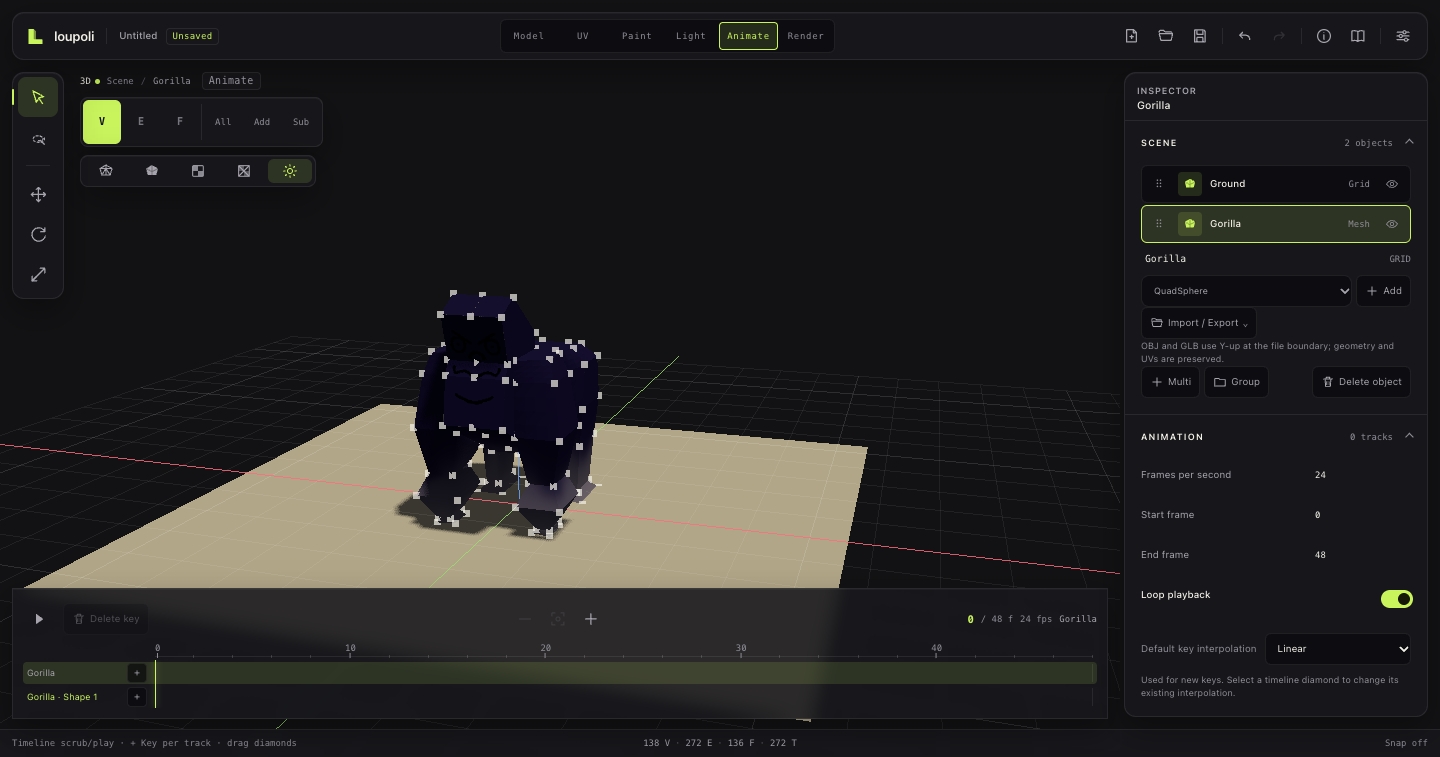
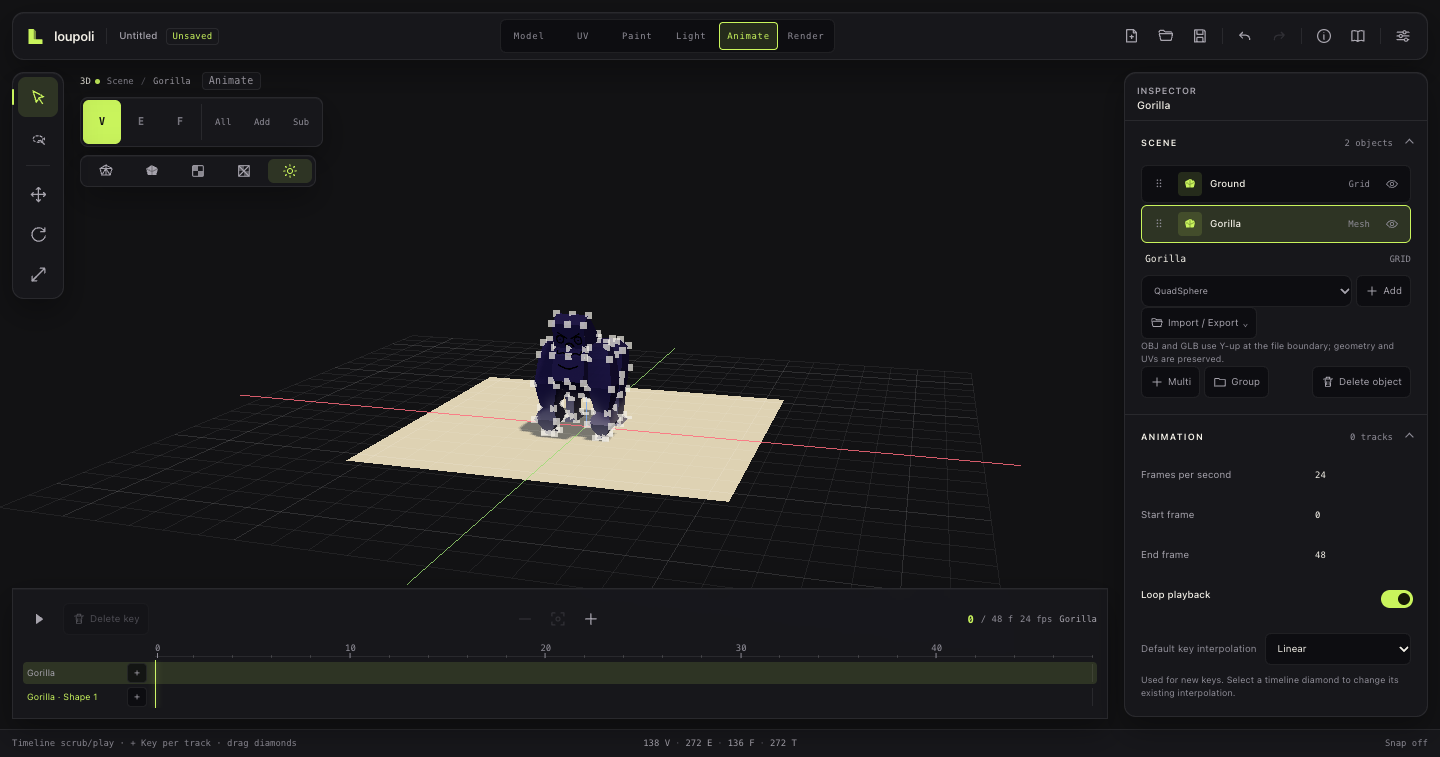
Refine documentation content and sample lighting
Recasts the reference as functionality explanations with larger reading text, removes claims that the sample scene is installed, brightens the illustrative lighting with a fill light, and refreshes the screenshots.

Changed region(s): [[0.0, 0.3646, 0.625, 0.79]]

diff --git a/src/lib/help/documentation.ts b/src/lib/help/documentation.ts
@@ -23,7 +23,7 @@ export const DOCUMENTATION: readonly DocumentationPage[] = [
     summary:
       'Model is the direct-edit workspace. Selection, transforms, one-shot topology tools, modifiers, and shape keys all act on the active editable mesh.',
     image: '/documentation/model.png',
-    alt: 'Model workspace with the front-facing gorilla, grid ground, Scene outliner, and vertex selection handles.',
+    alt: 'Model workspace with a textured sample model, grid ground, Scene outliner, and vertex selection handles.',
     sections: [
       {
         heading: 'Selection',
@@ -52,14 +52,14 @@ export const DOCUMENTATION: readonly DocumentationPage[] = [
         ]
       },
       {
-        heading: 'Gorilla example',
+        heading: 'Illustration',
         paragraphs: [
-          'The gorilla is one mesh with per-corner UVs. Select it in Scene, switch to Face mode, and select the shoulder panels to try Extrude or Inset. The ground is a separate grid primitive, so it can be transformed without changing the gorilla.'
+          'The screenshots use a textured character on a separate grid plane. Select the character in Scene, switch to Face mode, and select a surface panel to try Extrude or Inset. The ground remains a separate object, so transforming it does not change the character.'
         ]
       }
     ],
     example:
-      'The example scene keeps the gorilla and ground as separate scene objects. The ground is selected and transformed independently of the character.'
+      'The screenshots use a sample character and ground as separate scene objects. The scene is illustrative; it is not installed with the application.'
   },
   {
     id: 'uv',
@@ -68,7 +68,7 @@ export const DOCUMENTATION: readonly DocumentationPage[] = [
     summary:
       'UV holds per-corner texture coordinates. The UV pane edits the same object selection shown in the 3D viewport, so chart work stays linked to the mesh.',
     image: '/documentation/uv.png',
-    alt: 'UV workspace with the gorilla texture atlas, UV charts, and the 3D viewport.',
+    alt: 'UV workspace with a sample texture atlas, UV charts, and the 3D viewport.',
     sections: [
       {
         heading: 'Seams and charts',
@@ -97,14 +97,14 @@ export const DOCUMENTATION: readonly DocumentationPage[] = [
         ]
       },
       {
-        heading: 'Gorilla example',
+        heading: 'Illustration',
         paragraphs: [
-          'The gorilla atlas already has separate charts for the head, limbs, and torso. Open UV, select a chart in Island mode, and move it with G. The texture stays attached to each chart, so the gorilla surface updates while you edit.'
+          'The sample atlas has separate charts for the head, limbs, and torso. Open UV, select a chart in Island mode, and move it with G. The texture stays attached to each chart, so the model surface updates while you edit.'
         ]
       }
     ],
     example:
-      'The supplied gorilla texture is a 512 × 512 atlas. Its charts appear directly in the UV pane and use the same texture assigned to the mesh.'
+      'The screenshots use a 512 × 512 sample atlas. Its charts appear directly in the UV pane and use the same texture assigned to the mesh.'
   },
   {
     id: 'paint',
@@ -113,7 +113,7 @@ export const DOCUMENTATION: readonly DocumentationPage[] = [
     summary:
       'Paint edits the active texture layer. The texture pane shows the atlas, while the 3D viewport can project brush strokes onto the selected surface.',
     image: '/documentation/paint.png',
-    alt: 'Paint workspace showing the gorilla atlas, Paint toolbar, and Brush inspector.',
+    alt: 'Paint workspace showing a sample atlas, Paint toolbar, and Brush inspector.',
     sections: [
       {
         heading: 'Assets and layers',
@@ -141,14 +141,14 @@ export const DOCUMENTATION: readonly DocumentationPage[] = [
         ]
       },
       {
-        heading: 'Gorilla example',
+        heading: 'Illustration',
         paragraphs: [
-          'Select the gorilla’s atlas in Texture, add a raster layer, and paint a mark on the face chart. Switch to the 3D viewport and paint on the face to place the same change through the mesh UVs. Use undo to revert the complete stroke.'
+          'Select the sample atlas in Texture, add a raster layer, and paint a mark on the face chart. Switch to the 3D viewport and paint on the face to place the same change through the mesh UVs. Use undo to revert the complete stroke.'
         ]
       }
     ],
     example:
-      'The gorilla texture is a shared asset in the example scene. Paint edits its layer stack rather than changing the mesh materials.'
+      'The sample atlas is a shared asset in the screenshots. Paint edits its layer stack rather than changing the mesh materials.'
   },
   {
     id: 'light',
@@ -157,7 +157,7 @@ export const DOCUMENTATION: readonly DocumentationPage[] = [
     summary:
       'Light owns the document light rig. Directional and point lights drive the Lit viewport and the direct-light texture bake.',
     image: '/documentation/light.png',
-    alt: 'Light workspace with the sun marker, ground shadow, and Lighting inspector.',
+    alt: 'Light workspace with sun and fill markers, a ground shadow, and the Lighting inspector.',
     sections: [
       {
         heading: 'Lights and markers',
@@ -185,14 +185,14 @@ export const DOCUMENTATION: readonly DocumentationPage[] = [
         ]
       },
       {
-        heading: 'Gorilla example',
+        heading: 'Illustration',
         paragraphs: [
-          'The example scene keeps one sun above and to the side of the gorilla. The ground receives the character shadow. Drag the sun arrow tip across the model to see the shadow direction change before baking.'
+          'The sample scene uses a sun and a fill light. The ground receives the character shadow. Drag the sun arrow tip across the model to see the shadow direction change before baking.'
         ]
       }
     ],
     example:
-      'The sun is a directional light. Its marker shows the anchor; the arrow points along the light direction toward the scene.'
+      'The sample scene uses a sun and a fill light. The screenshots are illustrative; the scene is not installed with the application.'
   },
   {
     id: 'animate',
@@ -201,7 +201,7 @@ export const DOCUMENTATION: readonly DocumentationPage[] = [
     summary:
       'Animate adds transform tracks and shape-weight tracks to the document. A key stores a value at a whole frame; playback evaluates the tracks without changing the rest transforms.',
     image: '/documentation/animate.png',
-    alt: 'Animate workspace with the gorilla, shape-key track, timeline, and Animation inspector.',
+    alt: 'Animate workspace with a sample model, shape-key track, timeline, and Animation inspector.',
     sections: [
       {
         heading: 'Tracks and keys',
@@ -230,9 +230,9 @@ export const DOCUMENTATION: readonly DocumentationPage[] = [
         ]
       },
       {
-        heading: 'Gorilla example',
+        heading: 'Illustration',
         paragraphs: [
-          'The example scene adds an empty shape key to the gorilla so its weight row is visible. Key a transform at frame 0, move to frame 24, change the object transform, and key it again. Scrub between the two frames to inspect the interpolation.'
+          'The screenshots add an empty shape key to the sample model so its weight row is visible. Key a transform at frame 0, move to frame 24, change the object transform, and key it again. Scrub between the two frames to inspect the interpolation.'
         ]
       }
     ],
@@ -246,7 +246,7 @@ export const DOCUMENTATION: readonly DocumentationPage[] = [
     summary:
       'Render composes a clean image through a saved scene camera. The viewport is a free camera-editing view; the camera and output settings define the capture.',
     image: '/documentation/render.png',
-    alt: 'Render workspace with the gorilla framed by the camera and Camera and Render inspector sections.',
+    alt: 'Render workspace with a sample model framed by the camera and Camera and Render inspector sections.',
     sections: [
       {
         heading: 'Cameras and view',
@@ -275,9 +275,9 @@ export const DOCUMENTATION: readonly DocumentationPage[] = [
         ]
       },
       {
-        heading: 'Gorilla example',
+        heading: 'Illustration',
         paragraphs: [
-          'The example camera frames the gorilla and its ground. Start in free editing to place the marker, use Through to check the composition, then choose Preview to inspect the framed result before writing a PNG.'
+          'The sample camera frames the character and its ground. Start in free editing to place the marker, use Through to check the composition, then choose Preview to inspect the framed result before writing a PNG.'
         ]
       }
     ],

diff --git a/src/lib/ui/Help/DocumentationModal.svelte b/src/lib/ui/Help/DocumentationModal.svelte
@@ -71,7 +71,7 @@
       <div class="page-grid">
         <figure>
           <img src={active.image} alt={active.alt} />
-          <figcaption>{active.label} workspace with the gorilla example scene.</figcaption>
+          <figcaption>{active.label} workspace. Screenshots use an illustrative sample scene.</figcaption>
         </figure>
 
         <article class="guide">

diff --git a/src/lib/ui/Help/AboutModal.svelte b/src/lib/ui/Help/AboutModal.svelte
@@ -71,7 +71,7 @@
 
     <footer class="about-footer">
       <p>Made by {APP_ABOUT.author}.</p>
-      <p>The gorilla model and texture are used for the documentation scenes.</p>
+      <p>Documentation screenshots use a sample scene for illustration.</p>
     </footer>
   </div>
 </ModalDialog>
